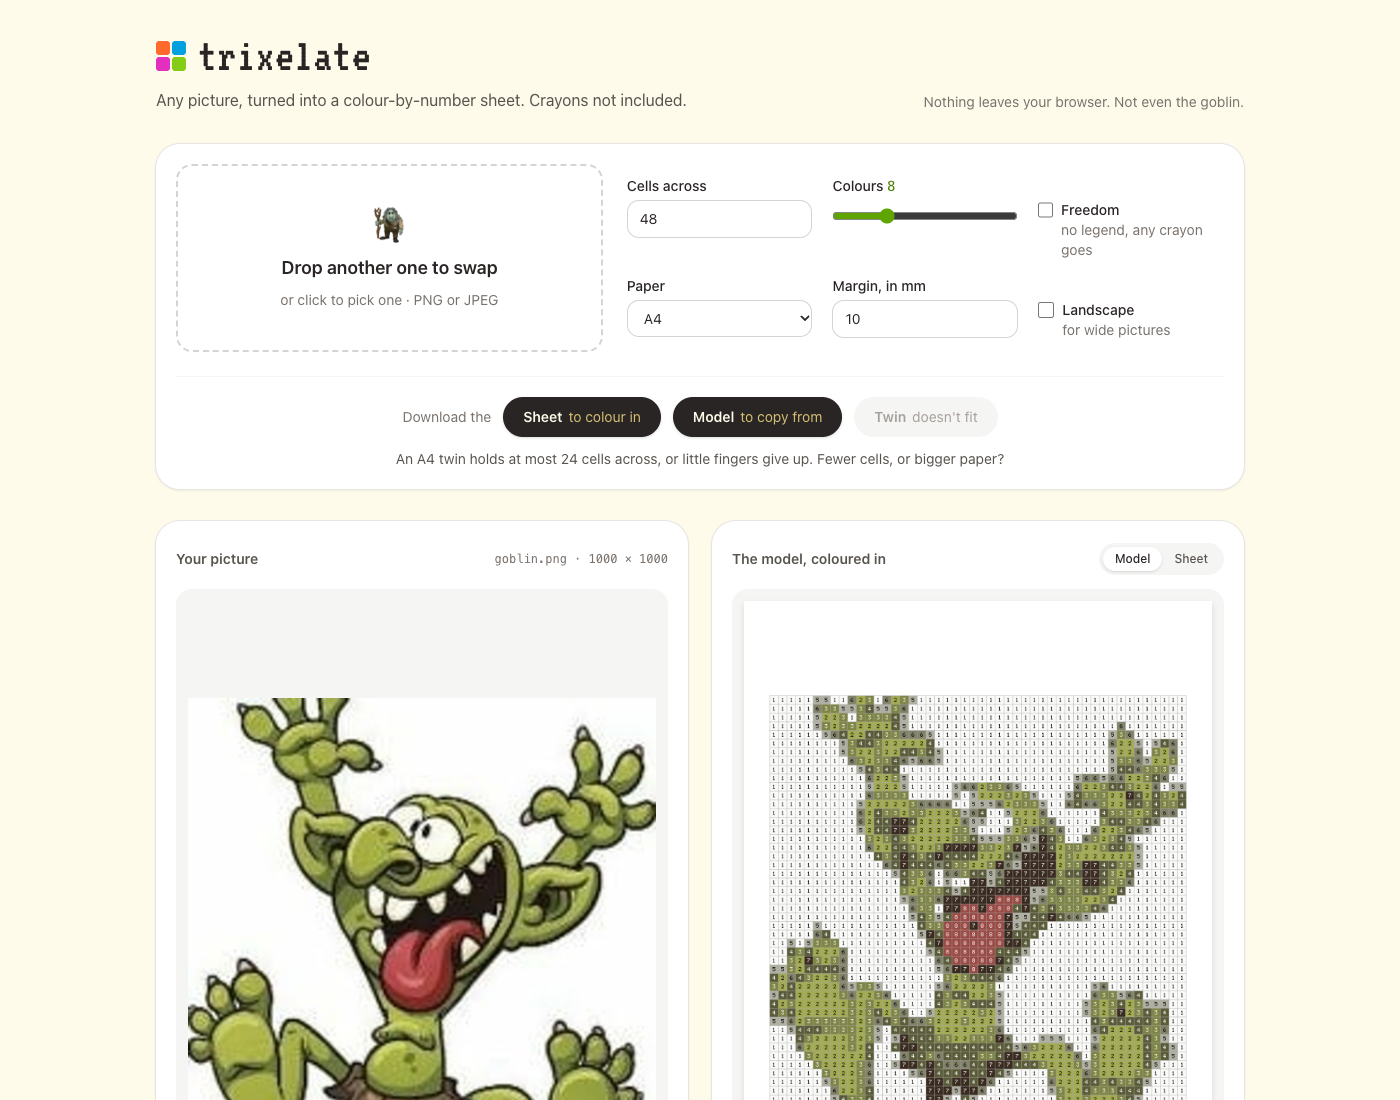
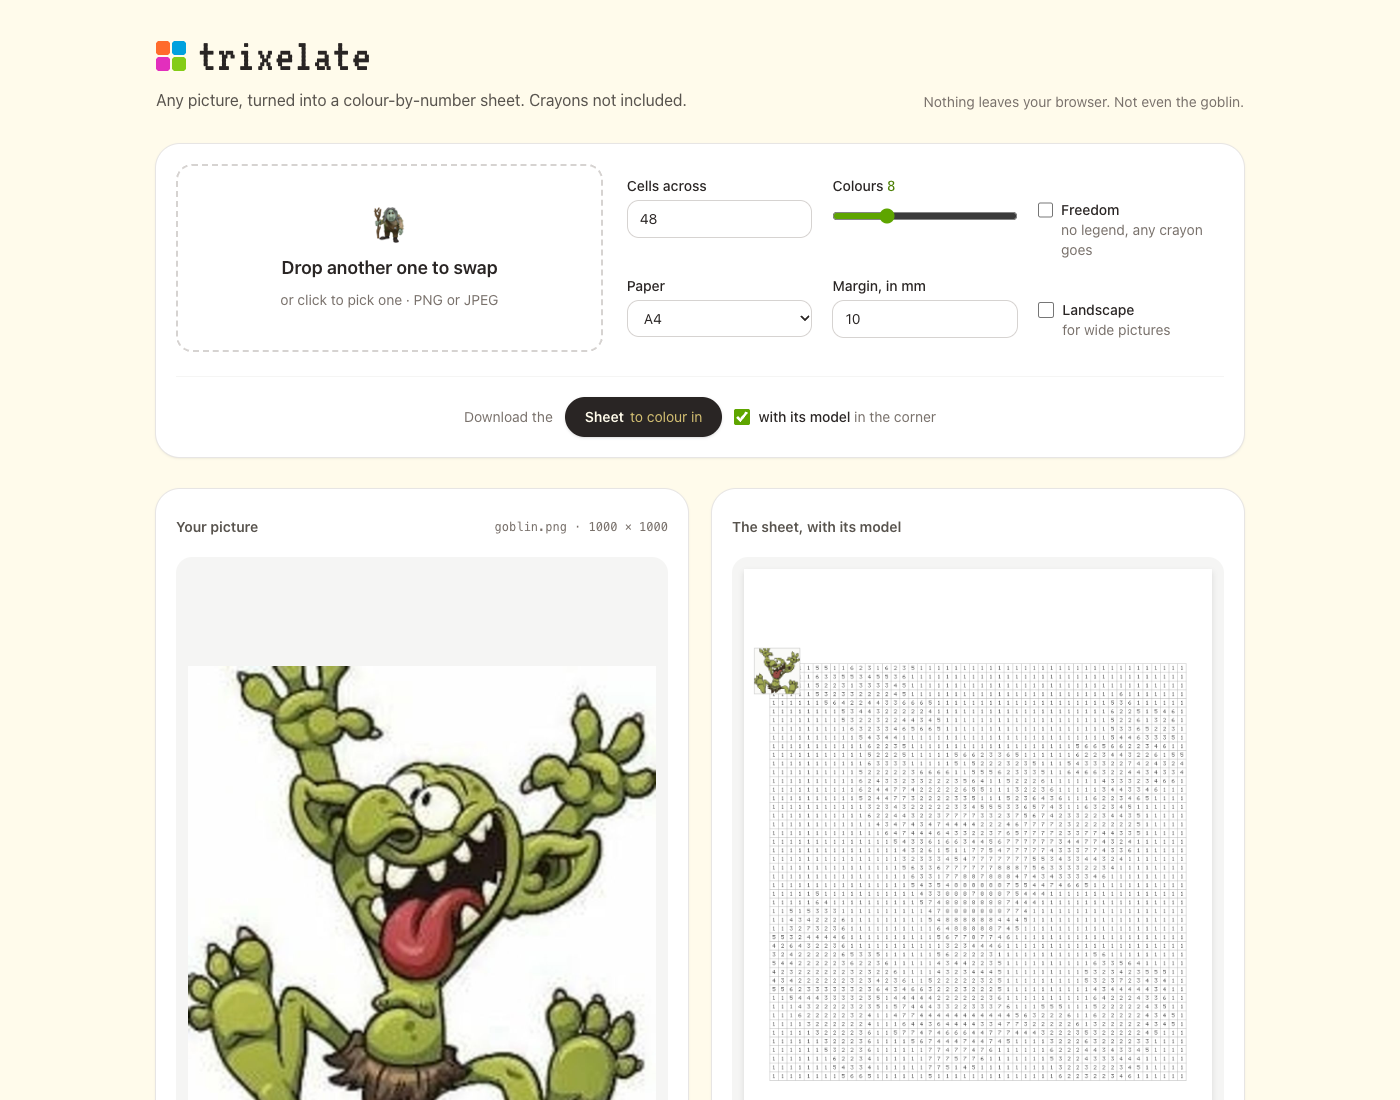
docs: the model is a miniature over the sheet's corner, --with-model on the command line and a box to tick on the page

diff --git a/crates/trixelate-cli/src/main.rs b/crates/trixelate-cli/src/main.rs
@@ -56,7 +56,7 @@ struct Cli {
     #[arg(long, group = "look")]
     with_model: bool,
 
-    /// Where to write the sheet [default: beside the picture, as <picture>-<width>-<colours>-<format>.sheet.png, .model.png or .twin.png, with -landscape and -freedom when asked]
+    /// Where to write the sheet [default: beside the picture, as <picture>-<width>-<colours>-<format>.sheet.png, with -landscape, -freedom or -with-model before .sheet.png when asked]
     #[arg(short, long)]
     output: Option<PathBuf>,
 
@@ -68,7 +68,7 @@ struct Cli {
     #[arg(short, long)]
     yes: bool,
 
-    /// Go beyond the most cells across the paper holds for a child: 64 on A3, 48 on A4, 32 on A5, half in a twin
+    /// Go beyond the most cells across the paper holds for a child: 64 on A3, 48 on A4, 32 on A5
     #[arg(long)]
     chaos: bool,
 }

diff --git a/crates/trixelate-web/src/main.rs b/crates/trixelate-web/src/main.rs
@@ -1,4 +1,4 @@
-//! The browser page: a picture dropped in, a sheet, a model or a twin out, with nothing sent anywhere.
+//! The browser page: a picture dropped in, a sheet out, with its model if asked, with nothing sent anywhere.
 
 mod app;
 

diff --git a/README.md b/README.md
@@ -11,7 +11,7 @@ trixelate reads a PNG or a JPEG, simplifies it into a grid of square cells, find
 ## Why
 
 - **Made for children**: big square cells outlined in light grey, numbers in dark grey rather than black, and a legend whose numbers stay readable on dark and light bubbles.
-- **A model when it helps**: `--model` paints the sheet in its colours for the youngest to copy, `--twin` puts that model and the grid to colour on one page, and `--freedom` gives only the numbers, leaving the colours to the child.
+- **A model when it helps**: `--with-model` sets the picture in miniature over the sheet's top left corner, in its colours and without numbers, for the youngest to see what they are making, and `--freedom` gives only the numbers, leaving the colours to the child.
 - **Ready to print**: A3, A4 or A5, portrait or landscape, at 300 dots per inch, the resolution written in the PNG so the printer keeps the paper's size.
 - **Safe by default**: a sheet that would not fit, cells too small for their numbers or a margin too wide is refused with what to try instead; an existing sheet is never overwritten without `--force`.
 - **Small**: the library needs only `png` and `zune-jpeg`, the command line adds `clap`, the page adds Leptos; the digits and letters are drawn from a five-by-seven pixel font, with no font file.
@@ -37,30 +37,29 @@ trixelate [OPTIONS] <PICTURE>
 | Option | Meaning | Default |
 | --- | --- | --- |
 | `<PICTURE>` | The PNG or JPEG picture to turn into a sheet, of any colour type and depth; the sheet is always a PNG | |
-| `--width` | Cells across the grid; the rows follow from the picture's proportions, so it is never stretched. At most 64 on A3, 48 on A4 and 32 on A5, half in a twin | the most a sheet on the paper holds, a twin included |
+| `--width` | Cells across the grid; the rows follow from the picture's proportions, so it is never stretched. At most 64 on A3, 48 on A4 and 32 on A5 | the most the paper holds |
 | `-c`, `--colours` | Colours in the palette, from 2 to 24 (`--colors` works too) | 8 |
 | `-f`, `--format` | The paper: `a3`, `a4` or `a5` | `a4` |
 | `--landscape` | Lay the paper on its side, for wide pictures | upright |
 | `-m`, `--margin` | The blank paper around the sheet, in millimetres | 10 |
 | `--freedom` | No legend: the numbers only group the cells, and the child picks the colours | |
-| `--model` | The sheet painted in its colours, a model to copy from | |
-| `--twin` | The model and the sheet on one page, one above the other in portrait, side by side in landscape | |
-| `-o`, `--output` | Where to write the sheet | beside the picture, named after it and its settings, so variants never overwrite each other: `goblin-48-8-a4.sheet.png`, `goblin-16-24-a5-landscape.twin.png`, `goblin-48-8-a4-freedom.sheet.png` |
+| `--with-model` | The model in miniature over the sheet's top left corner, an eighth of the grid wide, the picture in its colours to copy from | |
+| `-o`, `--output` | Where to write the sheet | beside the picture, named after it and its settings, so variants never overwrite each other: `goblin-48-8-a4.sheet.png`, `goblin-32-24-a5-landscape-with-model.sheet.png`, `goblin-48-8-a4-freedom.sheet.png` |
 | `--force` | Overwrite the sheet if it already exists | |
 | `-y`, `--yes` | Go ahead without being asked when warned: under 16 cells across it is big cubes, under 4 colours solid patches, more than pixel art | asks |
 | `--chaos` | Go beyond the most cells across, to try what the limits refuse | |
 
-Exit codes: `0` the sheet is written, `1` the picture or the sheet failed, or the answer to a warning was no, `2` the arguments are wrong, two of `--freedom`, `--model` and `--twin` together, too many cells across, or a warning with nobody at a terminal to answer it and no `--yes` included. Errors go to stderr and say what to try.
+Exit codes: `0` the sheet is written, `1` the picture or the sheet failed, or the answer to a warning was no, `2` the arguments are wrong, `--freedom` and `--with-model` together, too many cells across, or a warning with nobody at a terminal to answer it and no `--yes` included. Errors go to stderr and say what to try.
 
-A goblin turned into a sheet to colour with `trixelate sample/goblin.png`, and into its model with `trixelate sample/goblin.png --model`: 48 cells wide, 8 colours, on A4.
+A goblin turned into a sheet to colour with `trixelate sample/goblin.png`, and into the same sheet with its model with `trixelate sample/goblin.png --with-model`: 48 cells wide, 8 colours, on A4.
 
-| Picture | Sheet | Model |
+| Picture | Sheet | With its model |
 | --- | --- | --- |
-| ![A cheerful green goblin, arms up, sticking out its red tongue](sample/goblin.png) | ![The goblin as a colour-by-number sheet: a grid of numbered cells above a legend of eight coloured bubbles](sample/goblin.sheet.png) | ![The goblin's model: the same grid painted in its eight colours, the numbers still readable](sample/goblin.model.png) |
+| ![A cheerful green goblin, arms up, sticking out its red tongue](sample/goblin.png) | ![The goblin as a colour-by-number sheet: a grid of numbered cells above a legend of eight coloured bubbles](sample/goblin.sheet.png) | ![The goblin's sheet with its model: the same grid, the goblin in miniature and in colour over its top left corner](sample/goblin.with-model.png) |
 
 ## In the browser
 
-The same sheets without a command line or a server: drop a picture in, set the sheet up, look at its model or its sheet beside your picture, then download the sheet, the model or the twin. The picture never leaves the browser.
+The same sheets without a command line or a server: drop a picture in, set the sheet up, look at it beside your picture, with its model or without, then download it. The picture never leaves the browser.
 
 ```sh
 rustup target add wasm32-unknown-unknown
@@ -69,7 +68,7 @@ make web        # served at http://127.0.0.1:8080, rebuilt on every change
 make web-build  # a static site in crates/trixelate-web/dist, for any host
 ```
 
-![The page: the goblin dropped in on the left, its model coloured in on the right, the settings and the download buttons above](docs/web.png)
+![The page: the goblin dropped in on the left, its sheet with its model in the corner on the right, the settings and the download button above](docs/web.png)
 
 ## How a sheet is made
 
@@ -77,11 +76,11 @@ make web-build  # a static site in crates/trixelate-web/dist, for any host
 2. **The grid keeps the picture's proportions**, its rows following from `--width`, and **each cell averages the pixels it covers**, so a detail too small for the grid still tints its cell; a grid finer than its picture repeats its pixels.
 3. **The palette is cut from the cells' colours**: the box of colours that spreads the most is cut through the middle of its widest channel until there are as many boxes as colours asked, and each box gives its weighted average. Far-apart colours are never merged, and colour 1 is the one used most.
 4. **Every cell takes the number of its nearest palette colour**, and a colour no cell takes is dropped, so every bubble has cells to colour.
-5. **The layout gives the cells the largest square side the page allows**, inside the margin and above the legend, and the largest digits each cell and bubble can hold. A twin shares that room between its two grids, 10 mm apart.
-6. **A model paints each cell in its colour**, its number in black or white, whichever reads better, as in the legend.
+5. **The layout gives the cells the largest square side the page allows**, inside the margin and above the legend, and the largest digits each cell and bubble can hold.
+6. **A model sits in miniature over the grid's top left corner**, an eighth of its width and sticking out by a third, a block of colour per cell, framed, with no number and no line.
 7. **A small credit is written at the bottom right**, in the margin: trixelate and its licence.
 
-![A twin on A5 landscape: the model painted in twelve colours on the left, the grid to colour on the right, the legend below](crates/trixelate-cli/tests/golden/twelve-a5-landscape.twin.png)
+![A twelve-colour sheet on A5 with its model: the grid of numbered cells, the twelve colours in miniature over its top left corner, the legend below](crates/trixelate-cli/tests/golden/twelve-a5-with-model.sheet.png)
 
 The workspace holds the library, `crates/trixelate`, the command line, `crates/trixelate-cli`, and the page, `crates/trixelate-web`. The library takes bytes and gives bytes, with no file or terminal in it, so it can also run in a browser as WebAssembly. The words it uses are in the [glossary](GLOSSARY.md).
 

diff --git a/GLOSSARY.md b/GLOSSARY.md
@@ -11,8 +11,7 @@ The words trixelate's code and docs use, read before naming anything.
 | **Colour number** | A colour's place in the palette, from 1, written in every cell to paint with it. |
 | **Colouring** | A grid's cells, each with its colour number, and the palette they are numbered from. |
 | **Sheet** | The page printed for the child: the grid of numbered cells and its legend. |
-| **Model** | The sheet coloured in, each cell painted in its colour with its number readable on it, for the child to copy from. |
-| **Twin** | A model and its sheet on one page: the model above in portrait, on the left in landscape. |
+| **Model** | The picture in miniature over the sheet's top left corner, a block of colour per cell with no number and no line, for the child to see what they are making. |
 | **Page format** | The paper the sheet is drawn for, A3, A4 or A5, at 300 dots per inch. |
 | **Orientation** | Which way up the paper lies: portrait, upright, or landscape, on its side. |
 | **Margin** | The blank paper around the sheet's content, 20 mm unless asked otherwise. |
